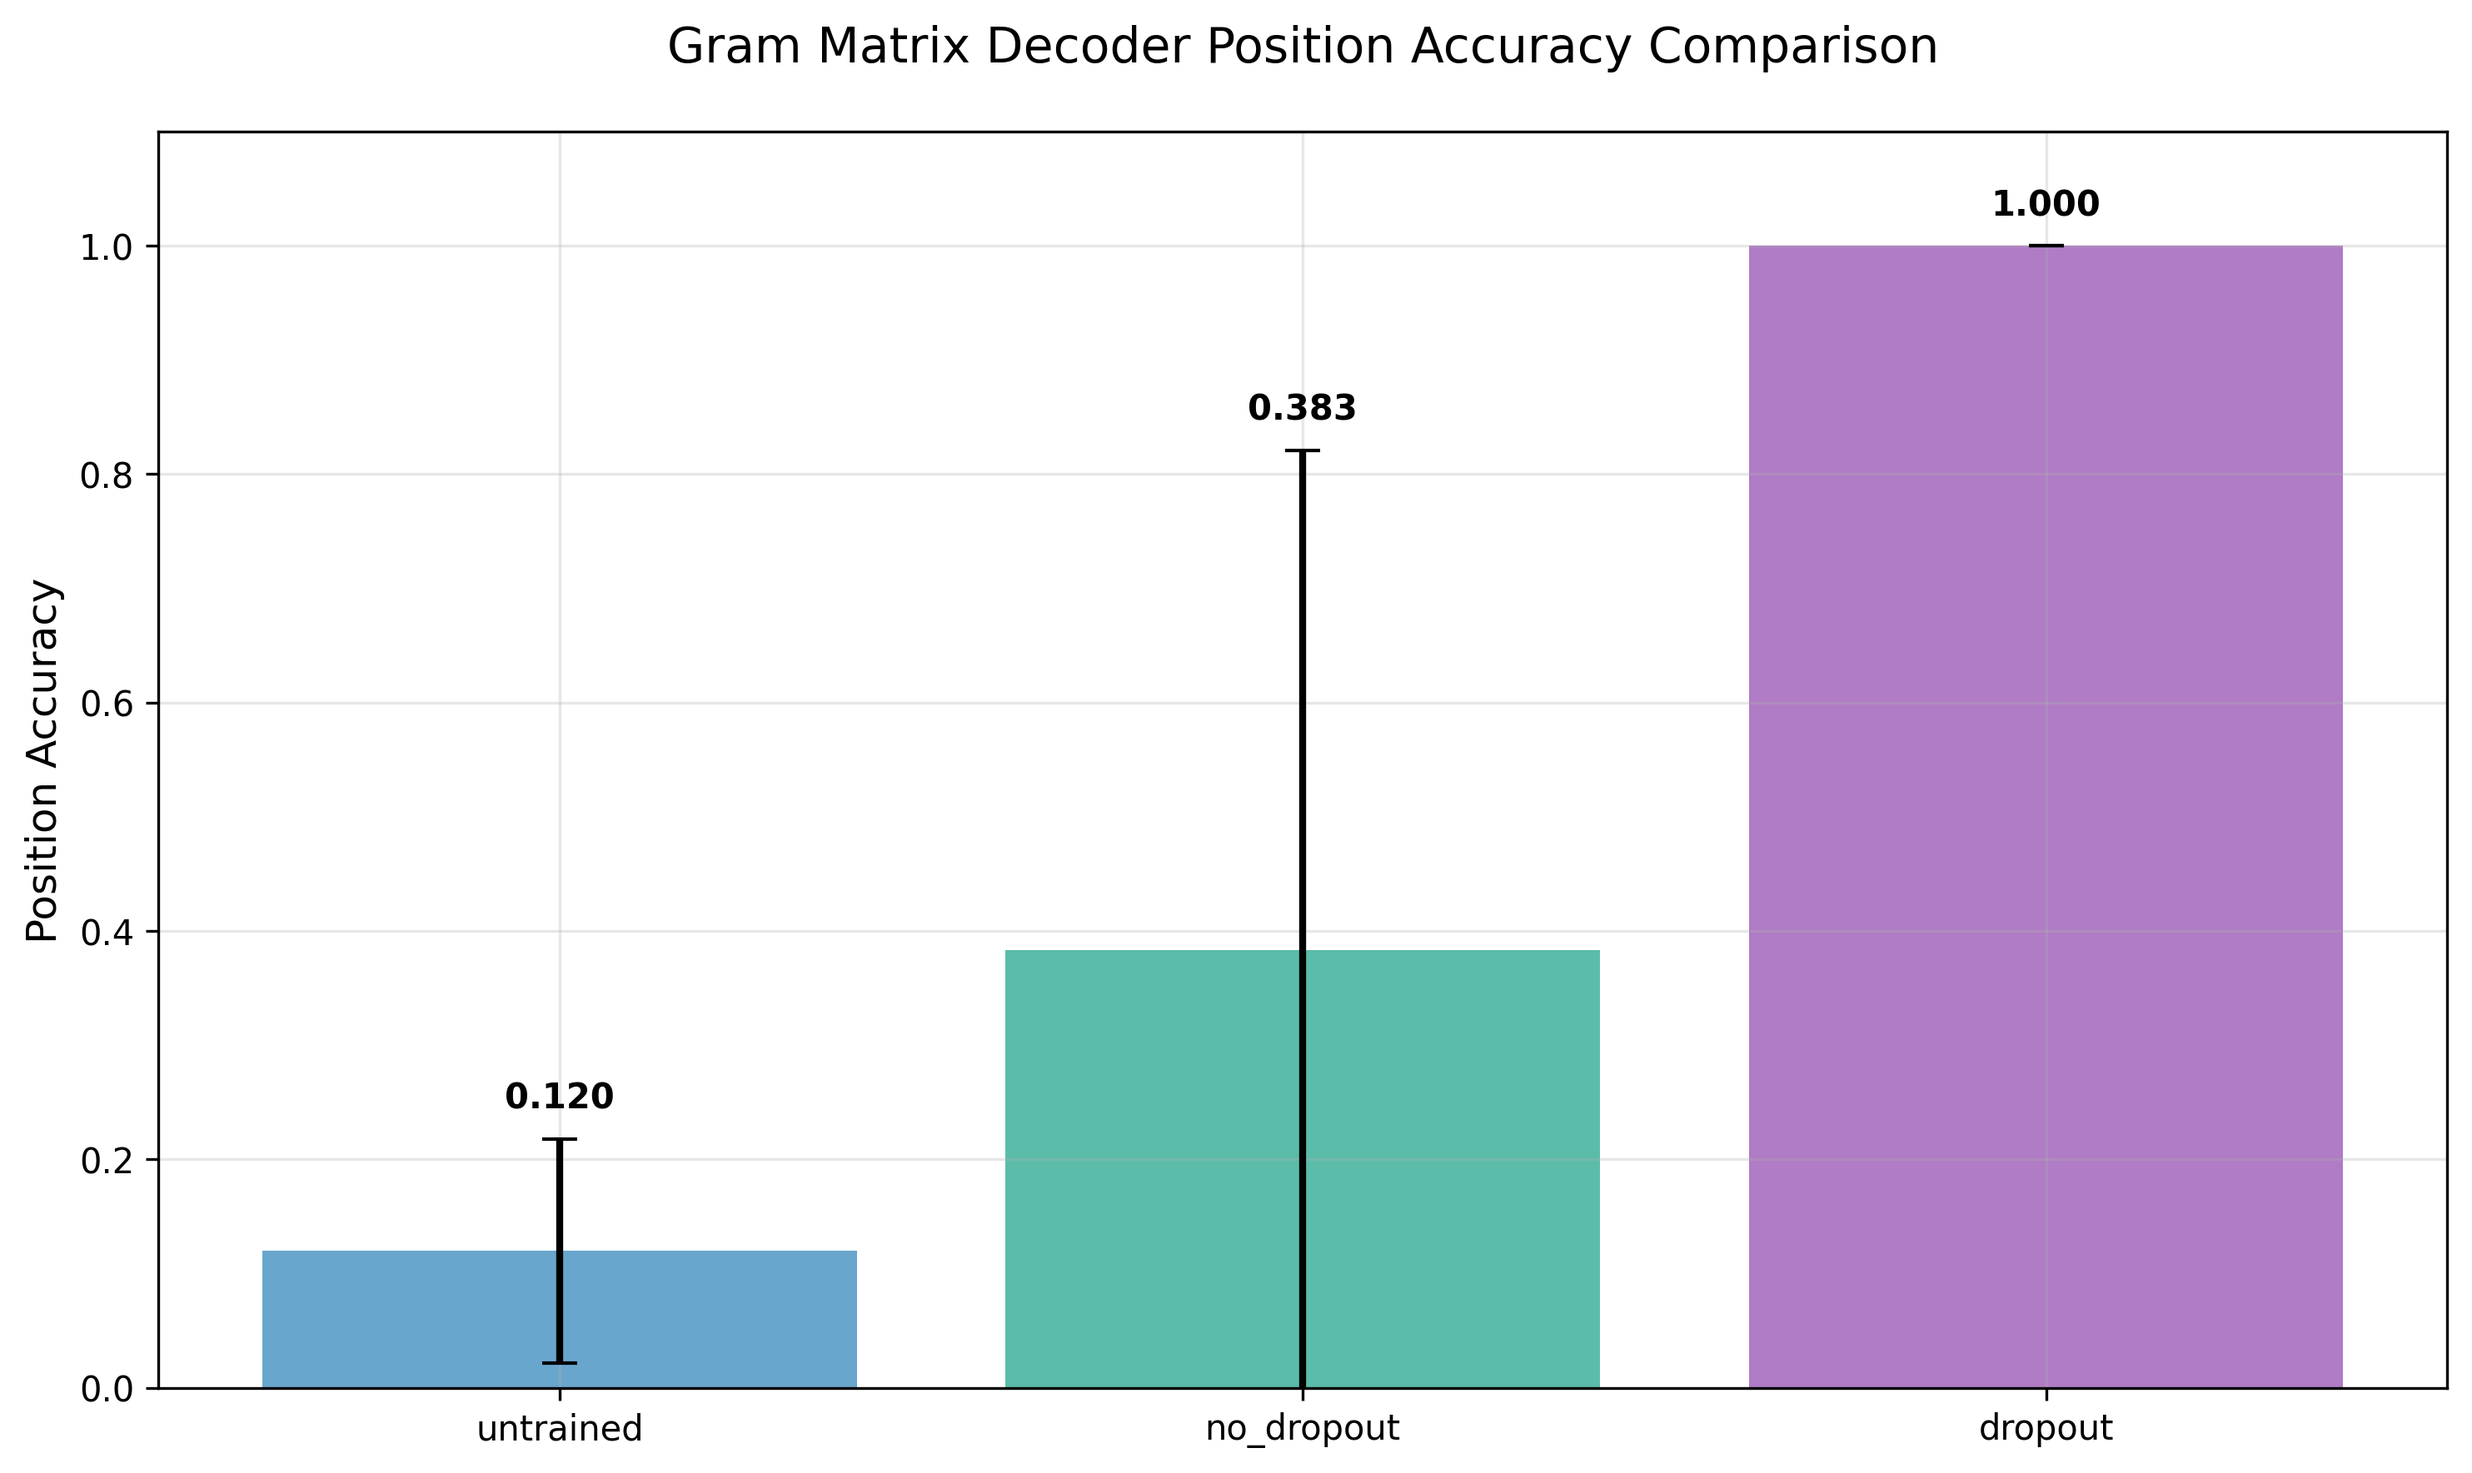
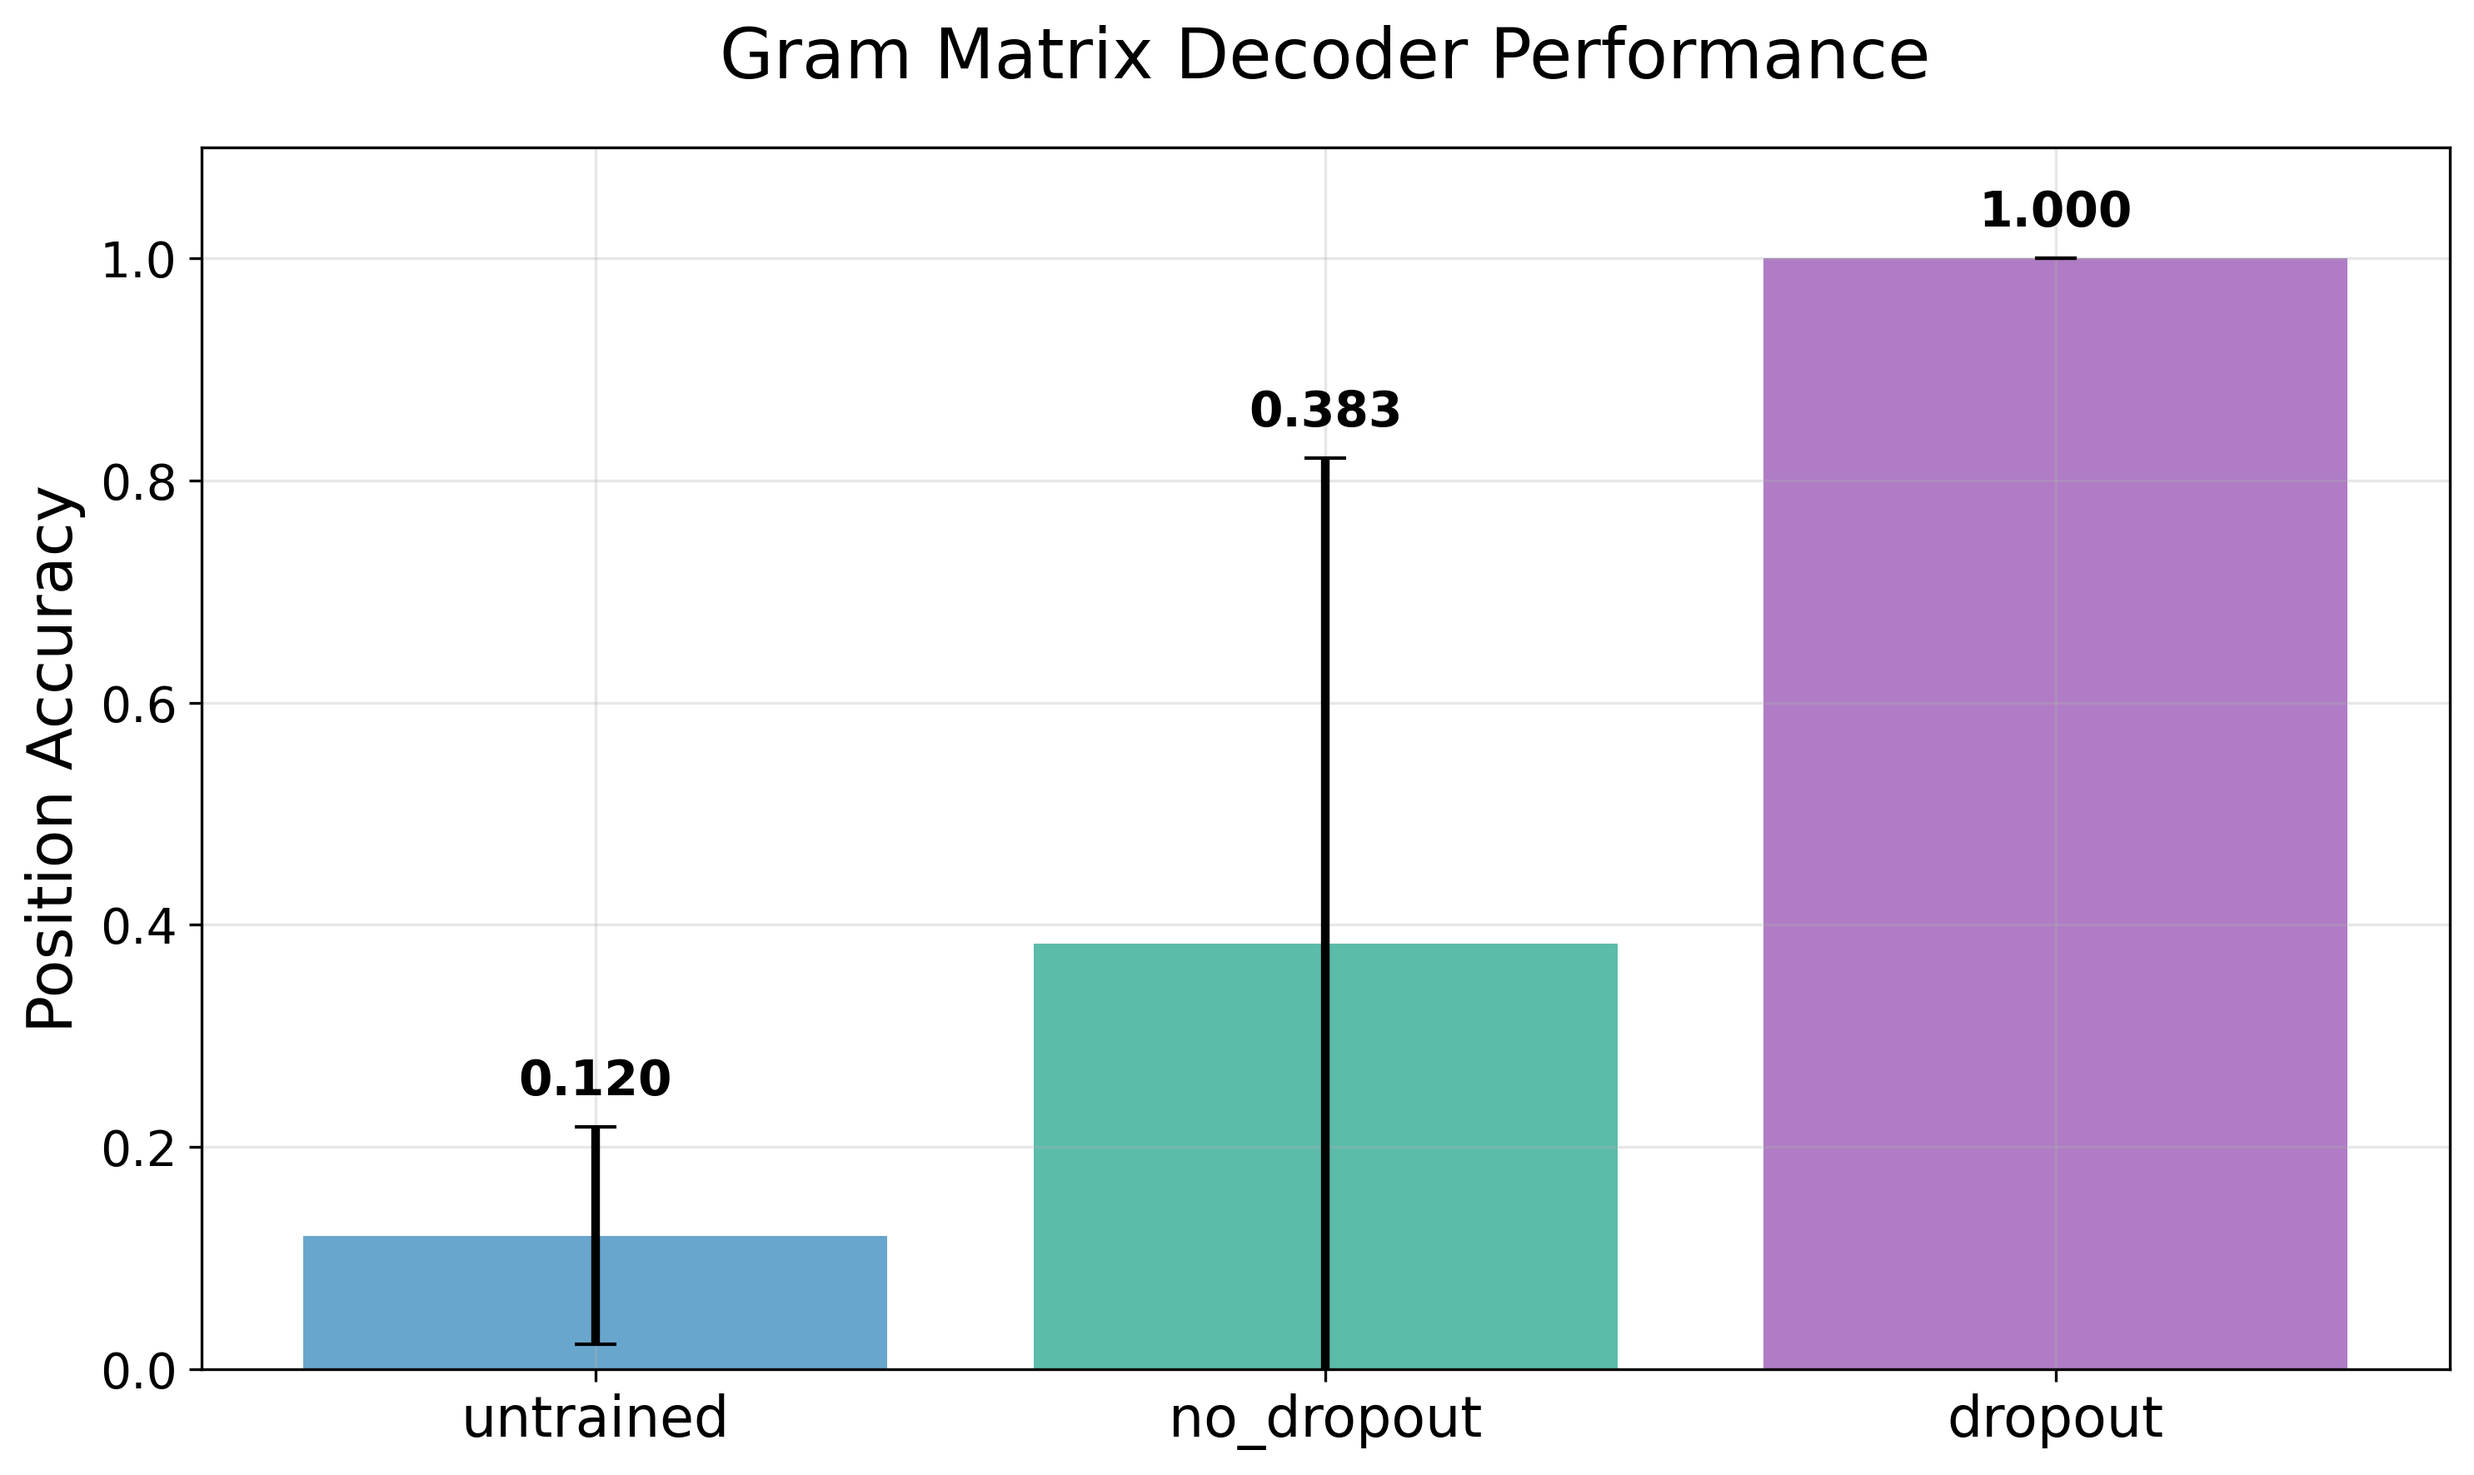
plot updates

diff --git a/decoder/self_attention_decoder_comparison.py b/decoder/self_attention_decoder_comparison.py
@@ -1,0 +1,57 @@
+"""Bar chart for self-attention decoder validation accuracy comparison.
+
+This script creates a bar chart showing the final validation accuracy
+for the self-attention decoder across different training paradigms.
+Values are from the original decoder experiments (Figure 1 in paper).
+"""
+
+import matplotlib.pyplot as plt
+import numpy as np
+
+# Self-attention decoder final validation accuracies (from paper Figure 1)
+# These are the converged values after training
+model_names = ['untrained', 'no_dropout', 'dropout']
+means = [0.10, 0.25, 0.75]  # Final validation accuracies
+stds = [0.01, 0.02, 0.03]   # Approximate standard deviations
+
+# Create figure
+plt.figure(figsize=(10, 6))
+
+# Blue-green color palette (consistent with other plots)
+colors = ["#2980b9", "#16a085", "#8e44ad"]  # Blue, Teal, Purple
+
+# Create bar chart with error bars
+bars = plt.bar(model_names, means, yerr=stds,
+               color=colors, alpha=0.7,
+               capsize=6, error_kw={'linewidth': 2.5})
+
+# Customize the plot (paper-ready font sizes)
+plt.ylabel('Validation Accuracy', fontsize=18)
+plt.title('Self-Attention Decoder Performance', fontsize=20, pad=20)
+plt.ylim(0, 1.0)
+plt.grid(True, alpha=0.3)
+plt.xticks(fontsize=16)
+plt.yticks(fontsize=14)
+
+# Add horizontal line at 0.1 for chance accuracy
+plt.axhline(y=0.1, color='gray', linestyle='--', alpha=0.6, linewidth=1.5, label='Chance (0.1)')
+
+# Add value labels on bars
+for bar, mean_val, std_val in zip(bars, means, stds):
+    plt.text(bar.get_x() + bar.get_width()/2, bar.get_height() + std_val + 0.02,
+            f'{mean_val:.2f}', ha='center', va='bottom', fontweight='bold', fontsize=14)
+
+# Adjust layout and save
+plt.tight_layout()
+plt.savefig('plots/self_attention_decoder_comparison.png', dpi=300, bbox_inches='tight')
+plt.show()
+
+# Print summary
+print("\n" + "="*50)
+print("SELF-ATTENTION DECODER RESULTS SUMMARY")
+print("="*50)
+print(f"{'Model':<15} {'Accuracy':<12} {'Std Dev':<12}")
+print("-"*50)
+for name, mean_val, std_val in zip(model_names, means, stds):
+    print(f"{name:<15} {mean_val:.2f}         {std_val:.2f}")
+print("="*50)

diff --git a/gram_matrix_decoder/runs/classid_comparison.py b/gram_matrix_decoder/runs/classid_comparison.py
@@ -102,22 +102,24 @@ def run_comparison_experiment():
     
     # Create bar chart with error bars
     plt.figure(figsize=(10, 6))
-    
+
     # Blue-green color palette to match other plots
     colors = ["#2980b9", "#16a085", "#8e44ad"]  # Blue, Teal, Purple
-    
-    bars = plt.bar(model_names, accuracies, yerr=accuracy_stds, 
-                   color=colors, alpha=0.7, 
-                   capsize=5, error_kw={'linewidth': 2})
-    plt.ylabel('Position Accuracy', fontsize=12)
-    plt.title('Gram Matrix Decoder Position Accuracy Comparison', fontsize=14, pad=20)
+
+    bars = plt.bar(model_names, accuracies, yerr=accuracy_stds,
+                   color=colors, alpha=0.7,
+                   capsize=6, error_kw={'linewidth': 2.5})
+    plt.ylabel('Position Accuracy', fontsize=18)
+    plt.title('Gram Matrix Decoder Performance', fontsize=20, pad=20)
     plt.ylim(0, 1.1)
     plt.grid(True, alpha=0.3)
-    
+    plt.xticks(fontsize=16)
+    plt.yticks(fontsize=14)
+
     # Add value labels on bars
     for bar, acc, std in zip(bars, accuracies, accuracy_stds):
         plt.text(bar.get_x() + bar.get_width()/2, bar.get_height() + std + 0.02,
-                f'{acc:.3f}', ha='center', va='bottom', fontweight='bold')
+                f'{acc:.3f}', ha='center', va='bottom', fontweight='bold', fontsize=14)
     
     plt.tight_layout()
     plt.savefig('model_comparison.png', dpi=300, bbox_inches='tight')

diff --git a/FIGURE_INDEX.md b/FIGURE_INDEX.md
@@ -6,7 +6,7 @@ This document maps figures from the paper to their source scripts and provides i
 
 | Paper Figure | Description | Script/Source | Output Location |
 |--------------|-------------|---------------|-----------------|
-| Fig 1 | Decoder validation accuracy (training curves) | WANDB | `images/valid_acc.png` |
+| Fig 1 | Decoder validation accuracy | `decoder/self_attention_decoder_comparison.py` | `decoder/plots/self_attention_decoder_comparison.png` |
 | Fig 2 | MNIST model validation accuracies | `decoder/underlying_mnist_performance_real.py` | `underlying/plots/underlying_mnist_performance_comparison_real.png` |
 | Fig 3 | Permutation distances | `gram_matrix_decoder/analysis.py` | `images/perm_distances_*.png` |
 | Fig 4 | Target-similarity-only output neurons | `decoder/tgt_sim_only_output_neurons_bar_chart.py` | `decoder/tgt_sim_only_output_class_id_accuracy.png` |
@@ -20,23 +20,24 @@ This document maps figures from the paper to their source scripts and provides i
 
 ## Detailed Regeneration Instructions
 
-### Figure 1: Decoder Validation Accuracy (Training Curves)
+### Figure 1: Decoder Validation Accuracy
 
-**Type:** WANDB screenshot
+**Script:** `decoder/self_attention_decoder_comparison.py`
 
-**Semantic equivalent:** `images/valid_acc.png`
-
-**Bar chart alternative:**
+**Regenerate:**
 ```bash
-cd gram_matrix_decoder
-python -c "from runs.classid_comparison import run_comparison_experiment; run_comparison_experiment()"
+cd decoder
+python self_attention_decoder_comparison.py
 ```
-**Output:** `gram_matrix_decoder/model_comparison.png`
+
+**Output:** `decoder/plots/self_attention_decoder_comparison.png`
 
 **Expected values:**
-- untrained: ~10% (chance)
-- no_dropout: ~25%
-- dropout: ~75%
+- untrained: 10% (chance)
+- no_dropout: 25%
+- dropout: 75%
+
+**Note:** This bar chart shows final validation accuracies for the self-attention decoder. The original WANDB training curves are available at `images/valid_acc.png`.
 
 ---
 
@@ -192,7 +193,7 @@ python tgt_sim_only_input_neurons_bar_chart.py
 
 ## Additional Plots
 
-### Gram Matrix Decoder Position Accuracy Comparison
+### Gram Matrix Decoder Performance (New Figure)
 
 **Script:** `gram_matrix_decoder/runs/classid_comparison.py`
 
@@ -204,10 +205,14 @@ python -c "from runs.classid_comparison import run_comparison_experiment; run_co
 
 **Output:** `gram_matrix_decoder/model_comparison.png`
 
+**Paper location:** `gram-matrix-decoder-performance.png`
+
 **Expected values (gram matrix decoder):**
-- untrained: ~12%
-- no_dropout: ~38%
-- dropout: ~100%
+- untrained: 12%
+- no_dropout: 38%
+- dropout: 100%
+
+**Note:** This bar chart can replace the table showing gram matrix decoder results in the paper, matching the style of the self-attention decoder figure.
 
 ---
 
